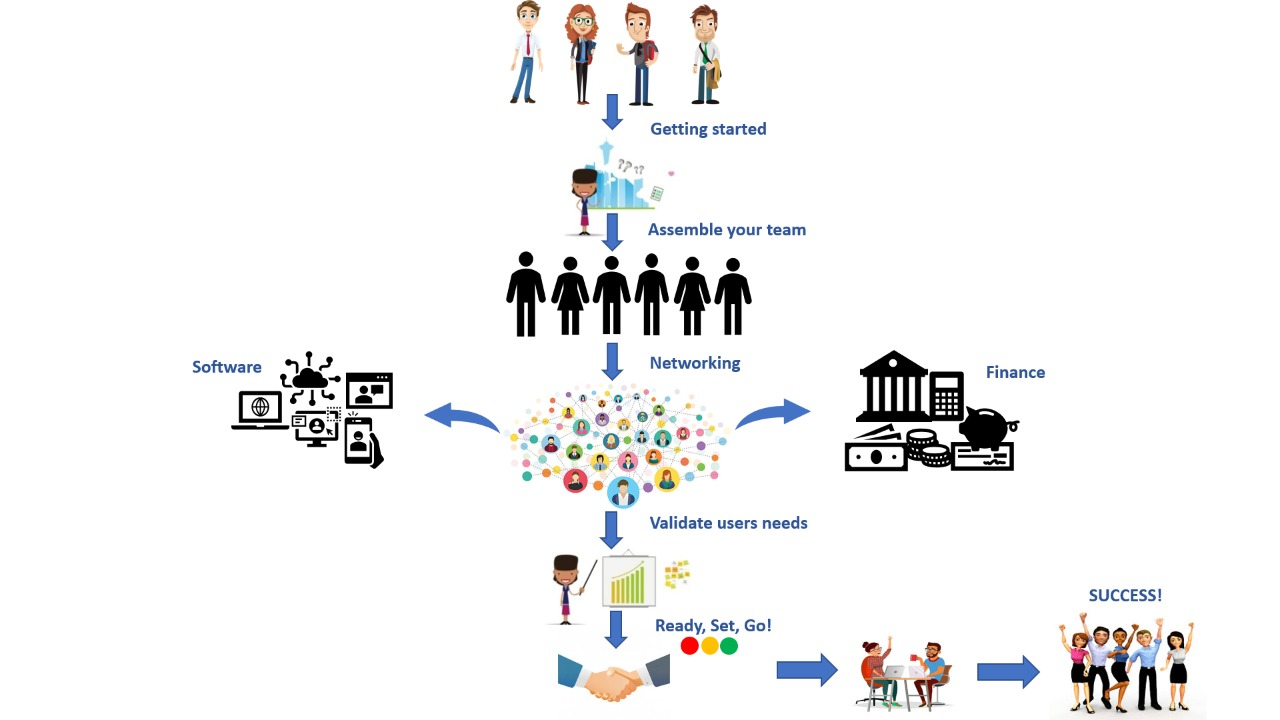
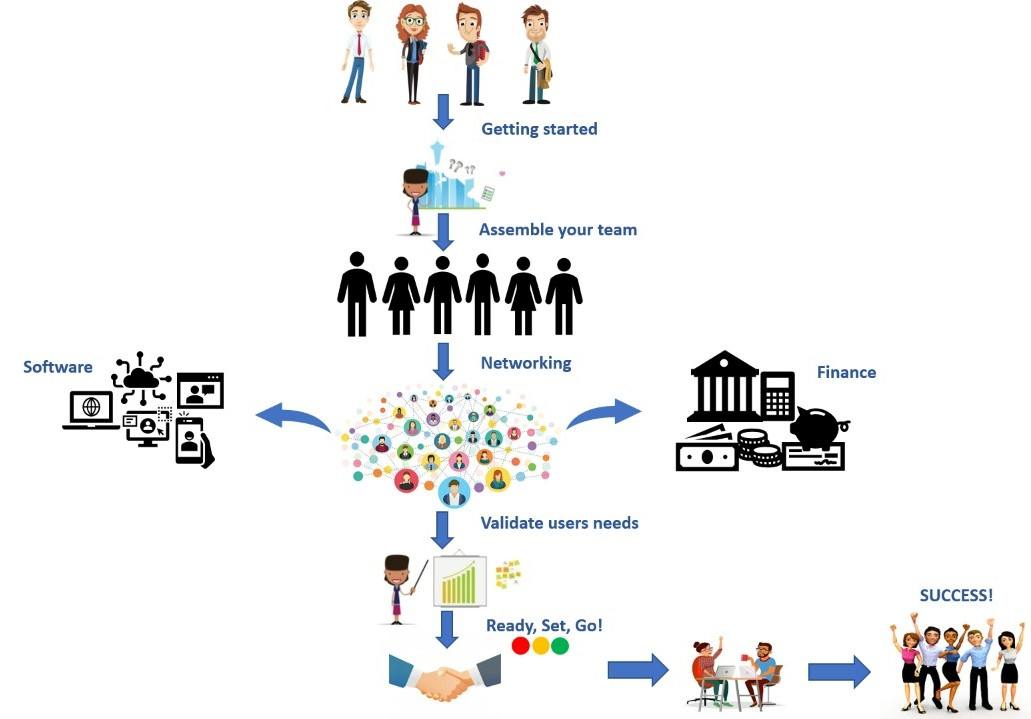
home component is updated

Changed region(s): [[0.0, 0.0, 0.6518, 0.9791], [0.5897, 0.7955, 0.9932, 1.0], [0.6518, 0.4896, 0.838, 0.6732]]

diff --git a/Frontend/src/components/Card.css b/Frontend/src/components/Card.css
@@ -1,120 +1,155 @@
 .cards {
-    padding-top: 24px;
-    padding-bottom: 24px;
-    /* display: flex;
-    flex-direction: column; */
-    background: #fff;
+  padding-top: 24px;
+  padding-bottom: 24px;
+  width :100%;
+  align-items: center;
+  justify-content: center;
+
+  /* display: flex;
+  flex-direction: column; */
+ 
+}
+.chart{
+padding-left: 7rem;
+align-items: center;
+justify-content: center;
+padding-bottom: 20px;
+}
+
+.cards__container {
+  display: flex;
+  flex-flow: column;
+  max-width: 1120px;
+  width: 100%;
+  margin-top: 3rem;
+  margin-left: 5rem;
+}
+.cards__wrapper {
+  position: relative;
+  margin-bottom:4px;
+}
+
+.cards__items {
+  margin-bottom: 2px;
+  display: flex;
+  flex-flow: row;
+}
+
+.cards__item {
+  display: flex;
+  flex: 1;
+  width:80%;
+  margin:0 4rem;
+  border-radius: 10px;
+  /* margin-bottom: 2rem; */
+}
+
+
+.cards__item__link {
+  display: flex;
+  flex-flow: column;
+  width: 100%;
+  box-shadow: 0 6px 20px rgba(56, 125, 255, 0.17);
+  -webkit-filter: drop-shadow(0 6px 20px rgba(56, 125, 255, 0.017));
+  filter: drop-shadow(0 6px 20px rgba(56, 125, 255, 0.017));
+  border-radius: 10px;
+  overflow: hidden;
+  text-decoration: none;
+}
+
+.cards__item__pic-wrap {
+  position: relative;
+  width: 100%;
+  padding-top: 60%;
+  overflow: hidden;
+}
+
+.fade-img {
+  animation-name: fade-img;
+  animation-duration: 2s;
+}
+
+.cards__item__pic-wrap::after {
+  content: attr(data-category);
+  position: absolute;
+  bottom: 0;
+  margin-left: 10px;
+  padding: 6px 8px;
+  max-width: calc((100%) -60px);
+  font-size: 12px;
+  font-weight: 700;
+  color: #fff;
+  box-sizing: border-box;
+}
+
+.cards__item__img {
+  position: absolute;
+  top: 0;
+  right: 0;
+  bottom: 0;
+  left: 0;
+  display: block;
+  width: 100%;
+  max-width: 100%;
+  height: 100%;
+  max-height: 100%;
+  object-fit: cover;
+  transition: all 0.2s linear;
+}
+
+.cards__item__img:hover {
+  transform: scale(1.1);
+}
+
+.cards__item__info {
+  padding: 10px 50px 10px;
+}
+
+.cards__item__text {
+  color: #252e48;
+  font-size: 15px;
+  line-height: 24px;
+}
+
+@media only screen and (min-width: 1200px) {
+  .cards__item{
+    width:100%;
   }
-  
+  .content__blog__container {
+    width: 84%;
+  }
+}
+
+@media only screen and (min-width: 1024px) {
+  .cards__items {
+    display: flex;
+  }
+  .cards__item{
+    width:70%;
+  }
+}
+
+@media only screen and (max-width: 960px) {
   .cards__container {
     display: flex;
     flex-flow: column;
     max-width: 1120px;
-    width: 50%;
-    margin: 10 auto;
+    width: 100%;
+    margin-top: 3rem;
+    margin-left: 0rem;
   }
-  
-  .cards__wrapper {
-    position: relative;
-    margin: 50px 0 45px;
+  .cards__item{
+    width:90%;
   }
-
-  .cards__items {
-
-    margin-bottom: 24px;
-    display: flex;
-    flex-flow: column;
-  }
-  
   .cards__item {
-    display: flex;
-    flex: 1;
-    /* margin: 0 1rem; */
-    border-radius: 10px;
-    margin-bottom: 2rem;
-    margin-left: 2rem;
+    margin:0 1rem;
   }
-  
-  .cards__item__link {
-    display: flex;
-    flex-flow: column;
-    width: 90%;
-    box-shadow: 0 6px 20px rgba(56, 125, 255, 0.17);
-    -webkit-filter: drop-shadow(0 6px 20px rgba(56, 125, 255, 0.017));
-    filter: drop-shadow(0 6px 20px rgba(56, 125, 255, 0.017));
-    border-radius: 10px;
-    overflow: hidden;
-    text-decoration: none;
-  }
-  
-  .cards__item__pic-wrap {
-    position: relative;
-    width: 100%;
-    padding-top: 57%;
-    overflow: hidden;
-  }
-  
-  .fade-img {
-    animation-name: fade-img;
-    animation-duration: 2s;
-  }
-  
-  .cards__item__pic-wrap::after {
-    content: attr(data-category);
-    position: absolute;
-    bottom: 0;
-    margin-left: 10px;
-    padding: 6px 8px;
-    max-width: calc((100%) - 60px);
-    font-size: 12px;
-    font-weight: 700;
-    color: #fff;
-    box-sizing: border-box;
-  }
-  
-  .cards__item__img {
-    position: absolute;
-    top: 0;
-    right: 0;
-    bottom: 0;
-    left: 0;
-    display: block;
-    width: 100%;
-    max-width: 100%;
-    height: 100%;
-    max-height: 100%;
-    object-fit: cover;
-    transition: all 0.2s linear;
-  }
-  
-  .cards__item__img:hover {
-    transform: scale(1.1);
-  }
-  
-  .cards__item__info {
-    padding: 20px 30px 30px;
-  }
-  
-  .cards__item__text {
-    color: #252e48;
-    font-size: 19px;
-    line-height: 24px;
-  }
-  
-  @media only screen and (min-width: 1200px) {
-    .content__blog__container {
-      width: 84%;
-    }
-  }
-  
-  @media only screen and (min-width: 1024px) {
-    .cards__items {
-      display: flex;
-    }
-  }
-  
-  @media only screen and (max-width: 1024px) {
-    .cards__item {
-      margin-bottom: 2rem;
-    }
-  }
+  .chart{
+    padding-left: 0rem;
+    width:50%;
+    padding-bottom: 20px;
+   }
+   .chartimg{
+    width:700px;
+   }
+}

diff --git a/Frontend/src/components/Card.js b/Frontend/src/components/Card.js
@@ -8,6 +8,7 @@ import flowchart from '../img/flowchart.jpeg';
 function Cards() {
     return (
         <div className='cards'>
+            <div className='chart'><img className="chartimg" src={flowchart} /></div>
             <div className='cards__container'>
                 <div className='cards__wrapper'>
                     <div className='cards__items'>
@@ -26,11 +27,6 @@ function Cards() {
                             text='Browse Jobs'
                             path='/FindJobs'
                         />
-                        {/* <img
-                        className='flowchart'
-                        alt='Startup'
-                        src={flowchart}
-                    /> */}
                     </div>
                 </div>
             </div>

diff --git a/Frontend/src/components/Button3.js b/Frontend/src/components/Button3.js
@@ -5,7 +5,7 @@ import { Link } from 'react-router-dom';
 export function Button3() {
     return (
         <Link to='login'>
-            <button className='btn'>Login</button>
+            <button className='btn'>LogIn</button>
         </Link>
     );
 }
